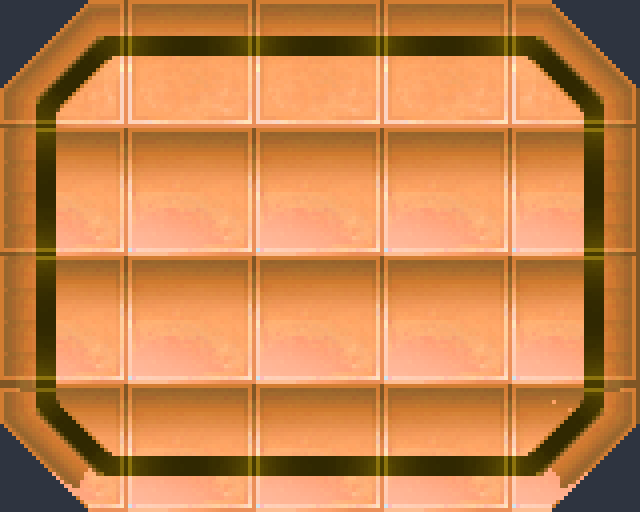
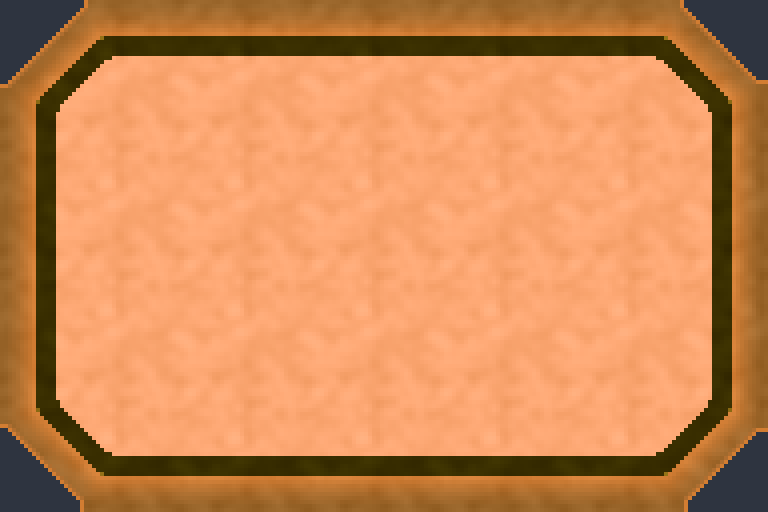
Repaint the orange floor seamless: no per-tile frames or shading
One smooth floor inside the line, a brown rim outside it on every side, and an
even line colour, so an area reads as one surface like our other floors.

diff --git a/docs/art-audits/pokezhero.md b/docs/art-audits/pokezhero.md
@@ -22,8 +22,9 @@ encrypted: 10.98 layout, alpha-channel sprites, 36,863 items, 3,489 outfits, 933
 | Trainer and Pokemon looks (every new one in `pokezhero-outfits.csv`) | | outfits 2906-4248 | |
 
 The orange set had only a top edge; `orange-floor/` adds the left, right and bottom lanes, the
-bottom corners and two bottom turns, made from the top pieces so the shading matches
-(`area.png` shows a whole area). The map editor lists the floors and buildings under the
+bottom corners and two bottom turns (`area.png` shows a whole area). Every orange piece is
+repainted on one seamless floor with a brown rim outside the line, so an area has no
+per-tile frames or shading. The map editor lists the floors and buildings under the
 PokeVerse floors / PokeVerse buildings tilesets. Not imported: the branded PokeDash floors
 (23962-23978, 29319-29333), the Magikarp statues, the white walls (we have 2222-2233) and the
 Tibia monster looks.
